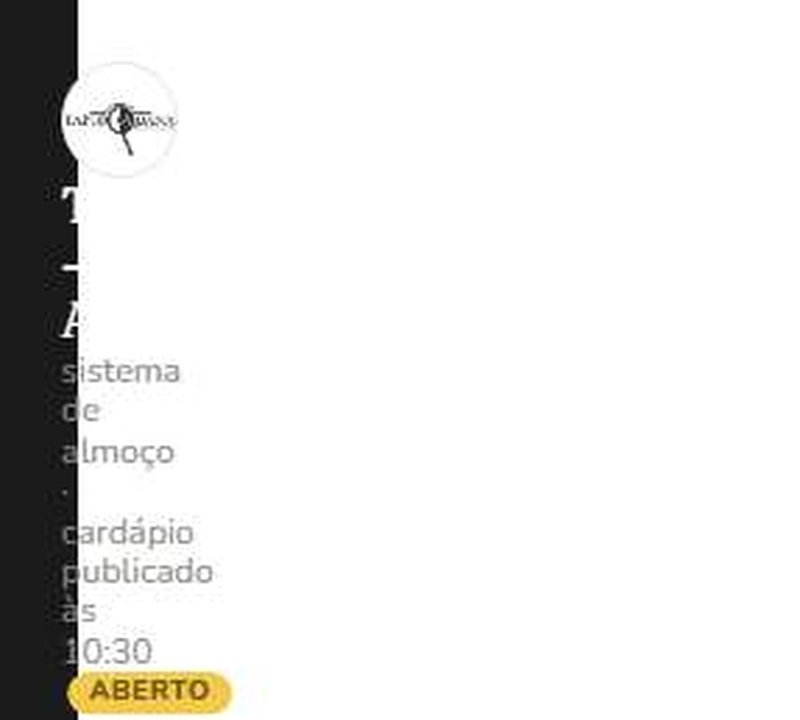
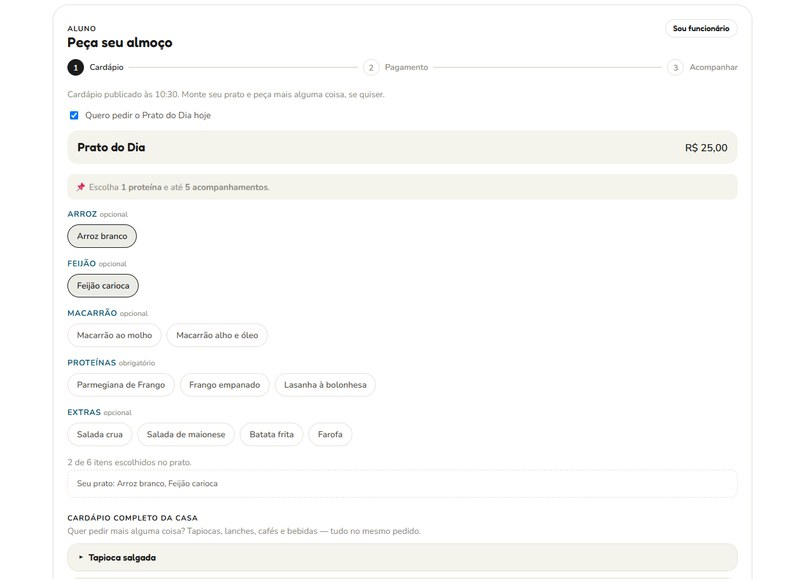
Atualiza prints de Bendito Sabor e Tapiocabana; adiciona print da Delicias da Mare

diff --git a/README.md b/README.md
@@ -104,6 +104,8 @@ CRM próprio, construído para organizar os projetos e clientes da própria CODE
 
 ### 🍽 Delícias da Maré — Cardápio Digital *(em preparação)*
 
+<img src="assets/screenshots/delicias-da-mare.jpg" width="420" alt="Sistema de cardápio Delícias da Maré"/>
+
 Cardápio digital para um restaurante, seguindo o mesmo formato de pedido pelo celular. Sistema pronto; deploy pendente da provisão final de banco de dados e domínio.
 
 - **Stack:** React · Vite · TailwindCSS · Hono · Drizzle · Neon Postgres · Cloudflare Workers
